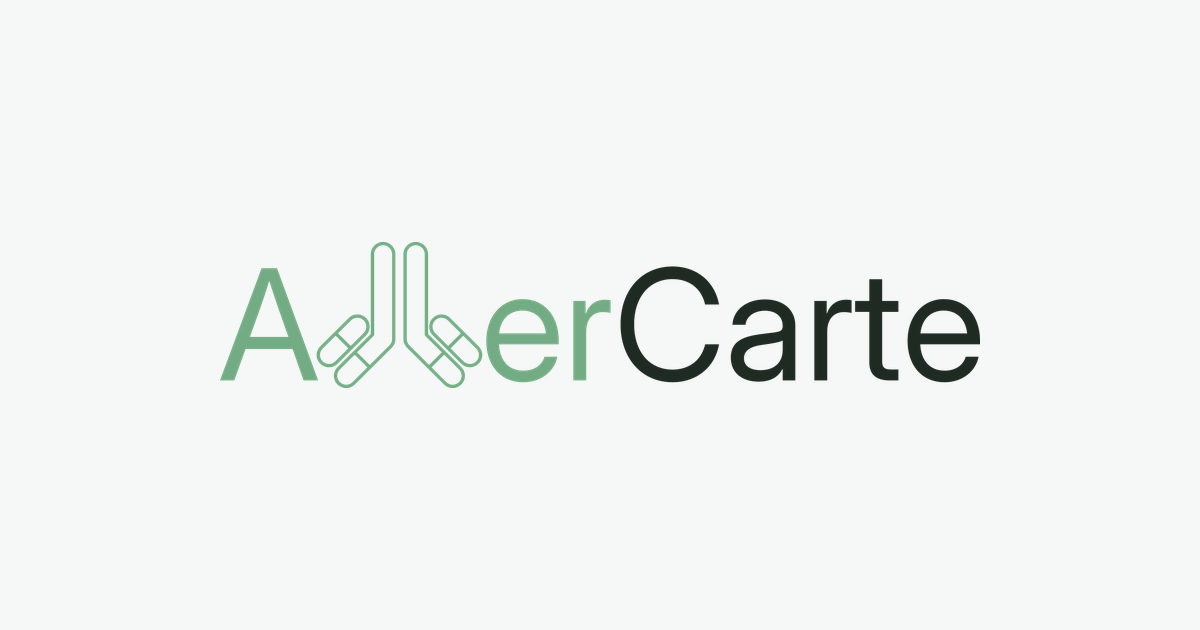
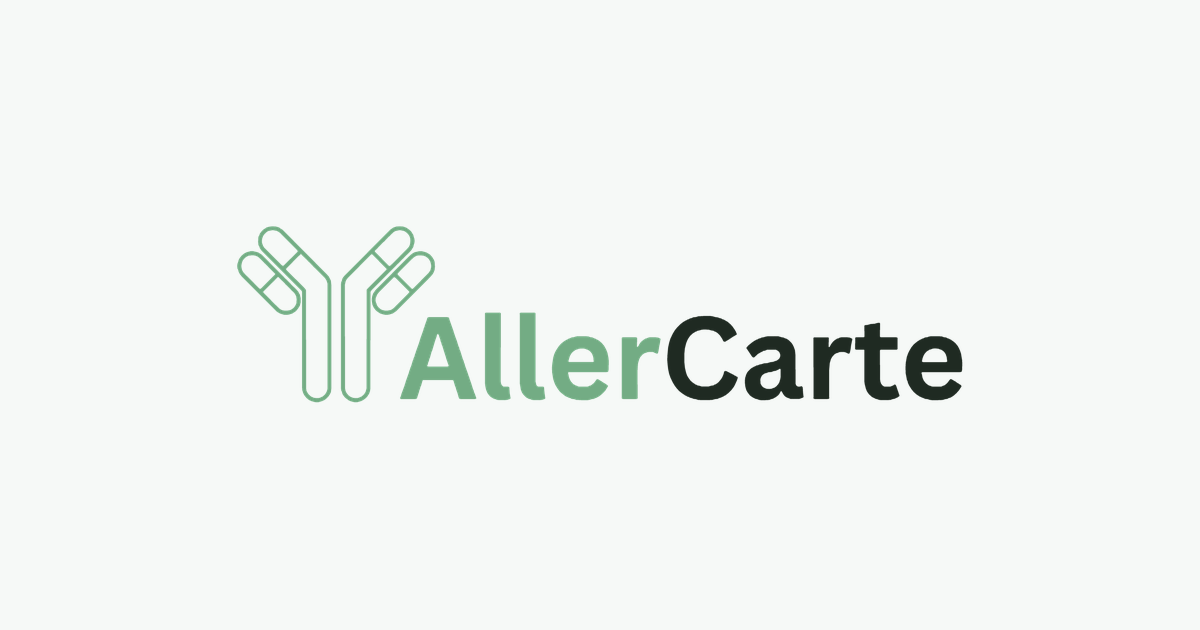
Novo logótipo: símbolo Y e nome AllerCarte
O anticorpo deixa de fazer os dois «l». O logótipo completo passa a ser
símbolo + nome, com variantes bicolor, branco, só símbolo e perfil.
Favicon, ícones, imagem de partilha e tamanhos no cabeçalho e rodapé
atualizados.

Changed region(s): [[0.185, 0.3619, 0.8325, 0.6333]]

diff --git a/src/components/lab/LabHeader.js b/src/components/lab/LabHeader.js
@@ -22,7 +22,7 @@ export function LanguageSwitch({ className = "" }) {
           aria-pressed={language === code}
           onClick={() => setLanguage(code)}
           lang={code}
-          aria-label={t(code === "pt" ? "nav.languageOptionPt" : "nav.languageOptionEn")}
+          aria-label={`${code.toUpperCase()}, ${t(code === "pt" ? "nav.languageOptionPt" : "nav.languageOptionEn")}`}
         >
           {code.toUpperCase()}
         </button>
@@ -117,7 +117,7 @@ function LabHeader() {
       )}
       <div className="lxh__bar">
         <Link to="/" className="lxh__logo" aria-label="AllerCarte">
-          <img src={`${process.env.PUBLIC_URL || ""}/allercarte-logo.svg`} alt="" width="1335" height="366" />
+          <img src={`${process.env.PUBLIC_URL || ""}/allercarte-logo.svg`} alt="" width="682" height="189" />
         </Link>
 
         <nav className="lxh__links" aria-label={copy.main}>

diff --git a/src/components/Header.js b/src/components/Header.js
@@ -32,8 +32,7 @@ function SiteHeader() {
       <nav className={`navbar${isPinned ? " navbar--pinned" : ""}`}>
         <div className="navbar-inner">
           <Link to="/" className="logo-link">
-            {/* The wordmark carries the symbol in its "ll". */}
-            <img src={logoPath} alt="AllerCarte" className="logo-mark" width="1335" height="366" />
+            <img src={logoPath} alt="AllerCarte" className="logo-mark" width="682" height="189" />
           </Link>
           <div className="navbar-actions">
             <HamburgerMenu links={navLinks} />

diff --git a/src/components/lab/LabFooter.js b/src/components/lab/LabFooter.js
@@ -24,7 +24,7 @@ function LabFooter() {
       <div className="lxf__shell">
         <div className="lxf__top">
           <Link to="/" className="lxf__logo" aria-label="AllerCarte">
-            <img src={`${process.env.PUBLIC_URL || ""}/allercarte-logo.svg`} alt="" width="1335" height="366" />
+            <img src={`${process.env.PUBLIC_URL || ""}/allercarte-logo.svg`} alt="" width="682" height="189" />
           </Link>
           <p className="lxf__tagline">{plain(t("home.heroEyebrow"))}</p>
         </div>

diff --git a/src/components/lab/LabHeader.css b/src/components/lab/LabHeader.css
@@ -49,7 +49,7 @@
 
 .lxh__logo img {
   display: block;
-  height: 26px;
+  height: 40px;
   width: auto;
 }
 
@@ -159,7 +159,7 @@
   border: 0;
   border-radius: 999px;
   background: none;
-  color: #66756b;
+  color: #536157;
   font: inherit;
   font-size: 0.75rem;
   font-weight: 600;

diff --git a/src/components/lab/LabFooter.css b/src/components/lab/LabFooter.css
@@ -28,7 +28,7 @@
 
 .lxf__logo img {
   display: block;
-  height: 28px;
+  height: 38px;
   width: auto;
 }
 
